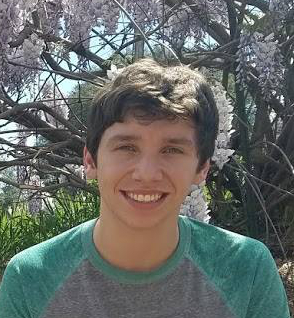
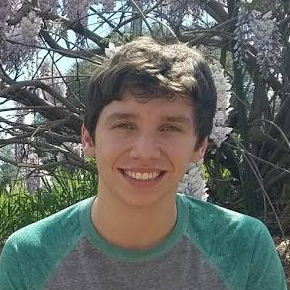
Adjust images to be square, fill in missing info

diff --git a/src/lists/Spring2019List.js b/src/lists/Spring2019List.js
@@ -4,16 +4,16 @@ import TommyImage from '../media/tommy.jpg';
 import ChantalleImage from '../media/chantalle_sml.jpg';
 import JulianImage from '../media/julian.jpg';
 import WilliamImage from '../media/william.jpg';
-import HuyImage from '../media/huy.jpg';
 import JesseImage from '../media/jesse.jpg';
 import LonnieImage from '../media/lonnie.jpg';
 import AaronImage from '../media/aaron.jpg';
 import RobertImage from '../media/robert.JPG';
 import JacobImage from '../media/jacob_sml.jpg';
 import PayneImage from '../media/payne.png';
-import JamesImage from '../media/james.jpg';
+import JamesImage from '../media/james_sml.jpg';
 import JaneenImage from '../media/janeen_sml.jpg';
 import MadiImage from '../media/madi_sml.jpg';
+
 export default [
     {
         id: 1,
@@ -24,7 +24,7 @@ export default [
         email: "omolazabal@csu.fullerton.edu",
         linkedin: "https://linkedin.com/in/oscar-olazabal",
         github: "https://github.com/omolazabal"
-    }, 
+    },
     {
         id: 2,
         image: TommyImage,
@@ -36,13 +36,12 @@ export default [
     },
     {
         id: 3,
-        image: ChantalleImage,
-        name: "Chantalle Bril",
-        title: "Secretary",
-        description: "Takes meeting minutes and sends out emails. Responsible for all forms of communication.",
-        email: "cbril@csu.fullerton.edu",
-        linkedin: "https://www.linkedin.com/in/chantallebril/",
-        github: "https://github.com/cbril"
+        image: JaneenImage,
+        name: "Janeen Yamak",
+        title: "Comm. Coordinator",
+        description: "Takes meeting minutes and sends out emails. Responsible for all forms of communication.",   
+        email: "janeenyamak1@gmail.com",    
+        github: "https://github.com/janeenyamak"
     },
     {
         id: 4,
@@ -62,8 +61,16 @@ export default [
         description: "Publicizes events and programs. Responsible for Social Media accounts.",
         email: "julian.c28@gmail.com"
     },
-
-    /*removed 6*/
+    {
+        id: 6,
+        image: ChantalleImage,
+        name: "Chantalle Bril",
+        title: "Project Manager",
+        description: "Creates new programs and manages current programs. Develops student projects and workshops.",
+        email: "cbril@csu.fullerton.edu",
+        linkedin: "https://www.linkedin.com/in/chantallebril/",
+        github: "https://github.com/cbril"
+    },
     {
         id: 7,
         image: LonnieImage,
@@ -80,9 +87,7 @@ export default [
         name: "Jacob Powell",
         title: "Project Manager",
         description: "Creates new programs and manages current programs. Develops student projects and workshops.",
-        email: " ",
-        github: " ",
-        linkedin: " "
+        email: "scoutdude@csu.fullerton.edu"
     },
     {
         id: 9,
@@ -96,13 +101,6 @@ export default [
     },
     {
         id: 10,
-        image: HuyImage,
-        name: "Huy Tran",
-        title: "ICC Representative",
-        description: "Attends InterClub Council meetings once every two weeks. Presents and votes on proposals on behalf of the club.",
-        email: "huytran2012@csu.fullerton.edu"
-    },
-    {
         image: JamesImage,
         name: "James Werrett",
         title: "ICC Representative",
@@ -133,8 +131,8 @@ export default [
         id: 13,
         image: JesseImage,
         name: "Jesse Mazzella",
-        title: "Web Master",
-        description: "Maintains the official website and manages ACM GitHub repositories. Benevolent web overlord.",
+        title: "Co-WebMaster",
+        description: "Maintains the official website and manages ACM GitHub repositories. Benevolent web co-overlord.",
         email: "jmazzella@csu.fullerton.edu",
         github: "https://github.com/ozyx",
         linkedin: "https://www.linkedin.com/in/jesse-mazzella-a28a22116/"
@@ -143,26 +141,18 @@ export default [
         id: 14,
         image: PayneImage,
         name: "Payne Lacsamana",
-        title: "Web Master",
-        description: "Maintains the official website and manages ACM GitHub repositories. Benevolent web overlord.",
+        title: "Co-WebMaster",
+        description: "Maintains the official website and manages ACM GitHub repositories. Benevolent web co-overlord.",
         email: "rlacsamana@csu.fullerton.edu",
         github: "https://github.com/paynegray",
         linkedin: "https://www.linkedin.com/in/paynel/"
     },
     {
-        image: JaneenImage,
-        name: "Janeen Yamak",
-        title: "Communications Coordinator",
-        description: "",   
-        email: "janeenyamak1@gmail.com",    
-        github: "https://github.com/janeenyamak"
-        
-    },
-    {
+        id: 15,
         image: MadiImage,
         name: "Madison Jordan",
-        description: "",
         title: "Historian",
+        description: "Manages the ACM blog site and writes about recent ACM events.",
         email: "madisonjordan@csu.fullerton.edu" 
     }
 ];
